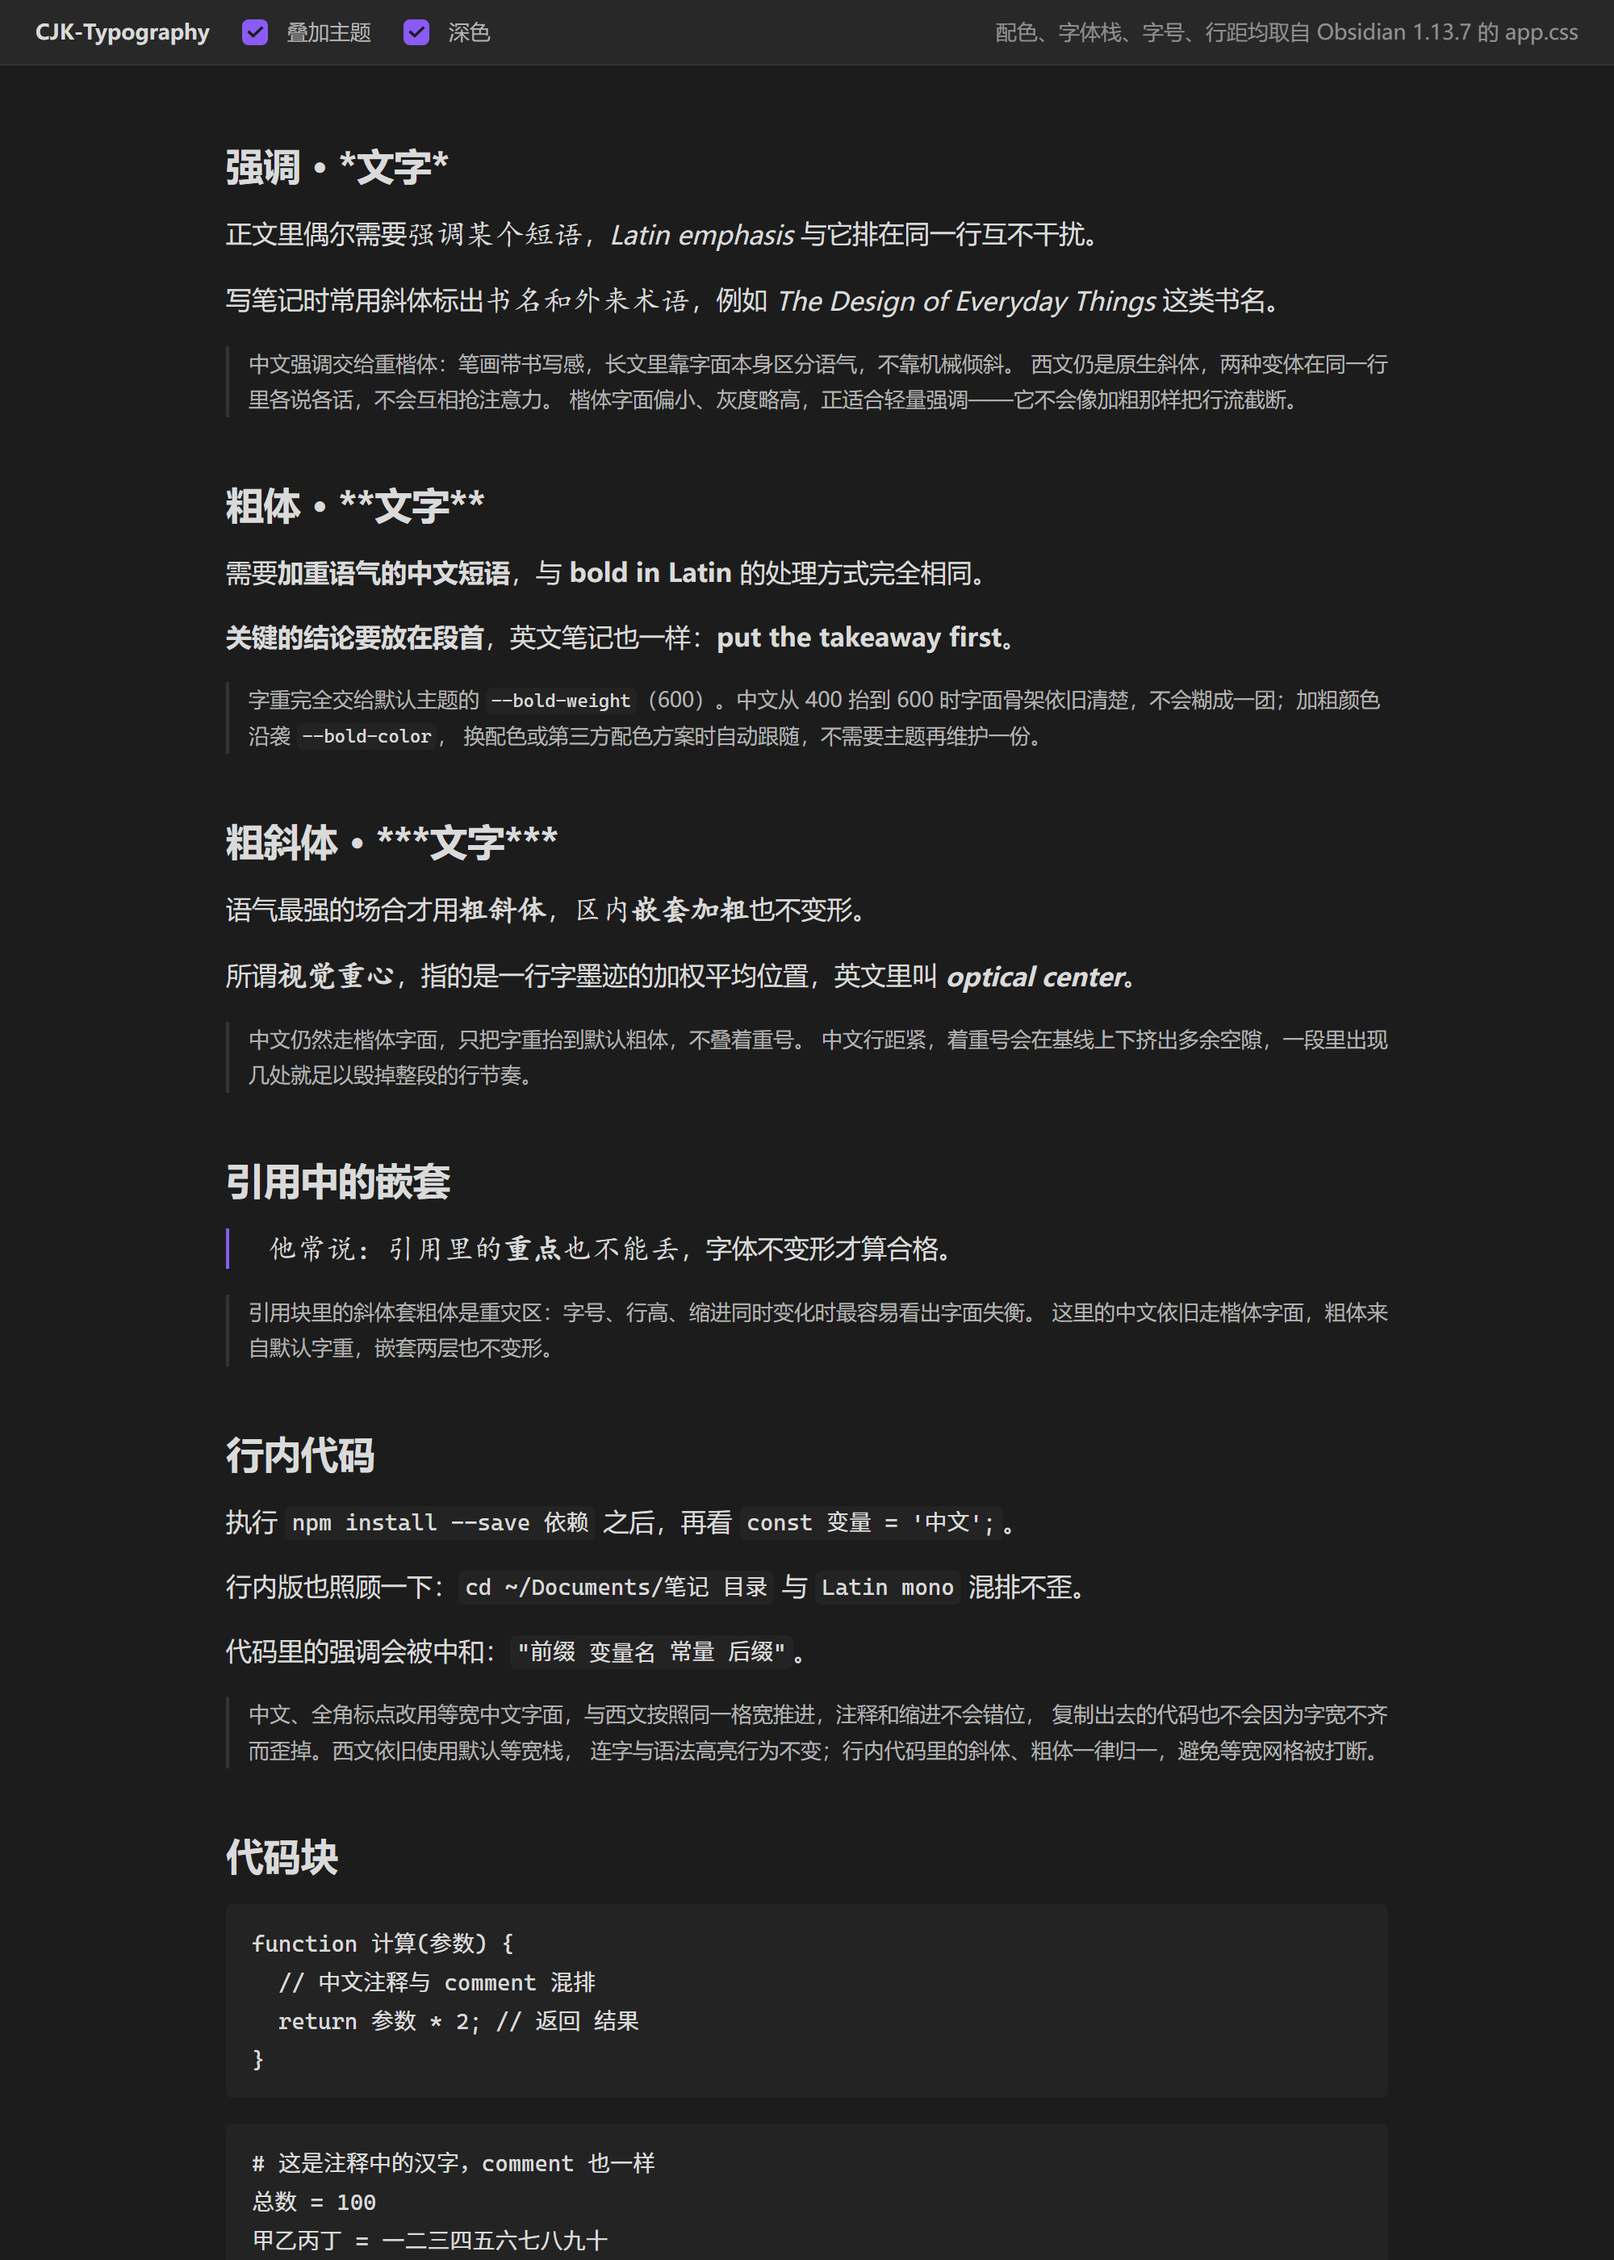
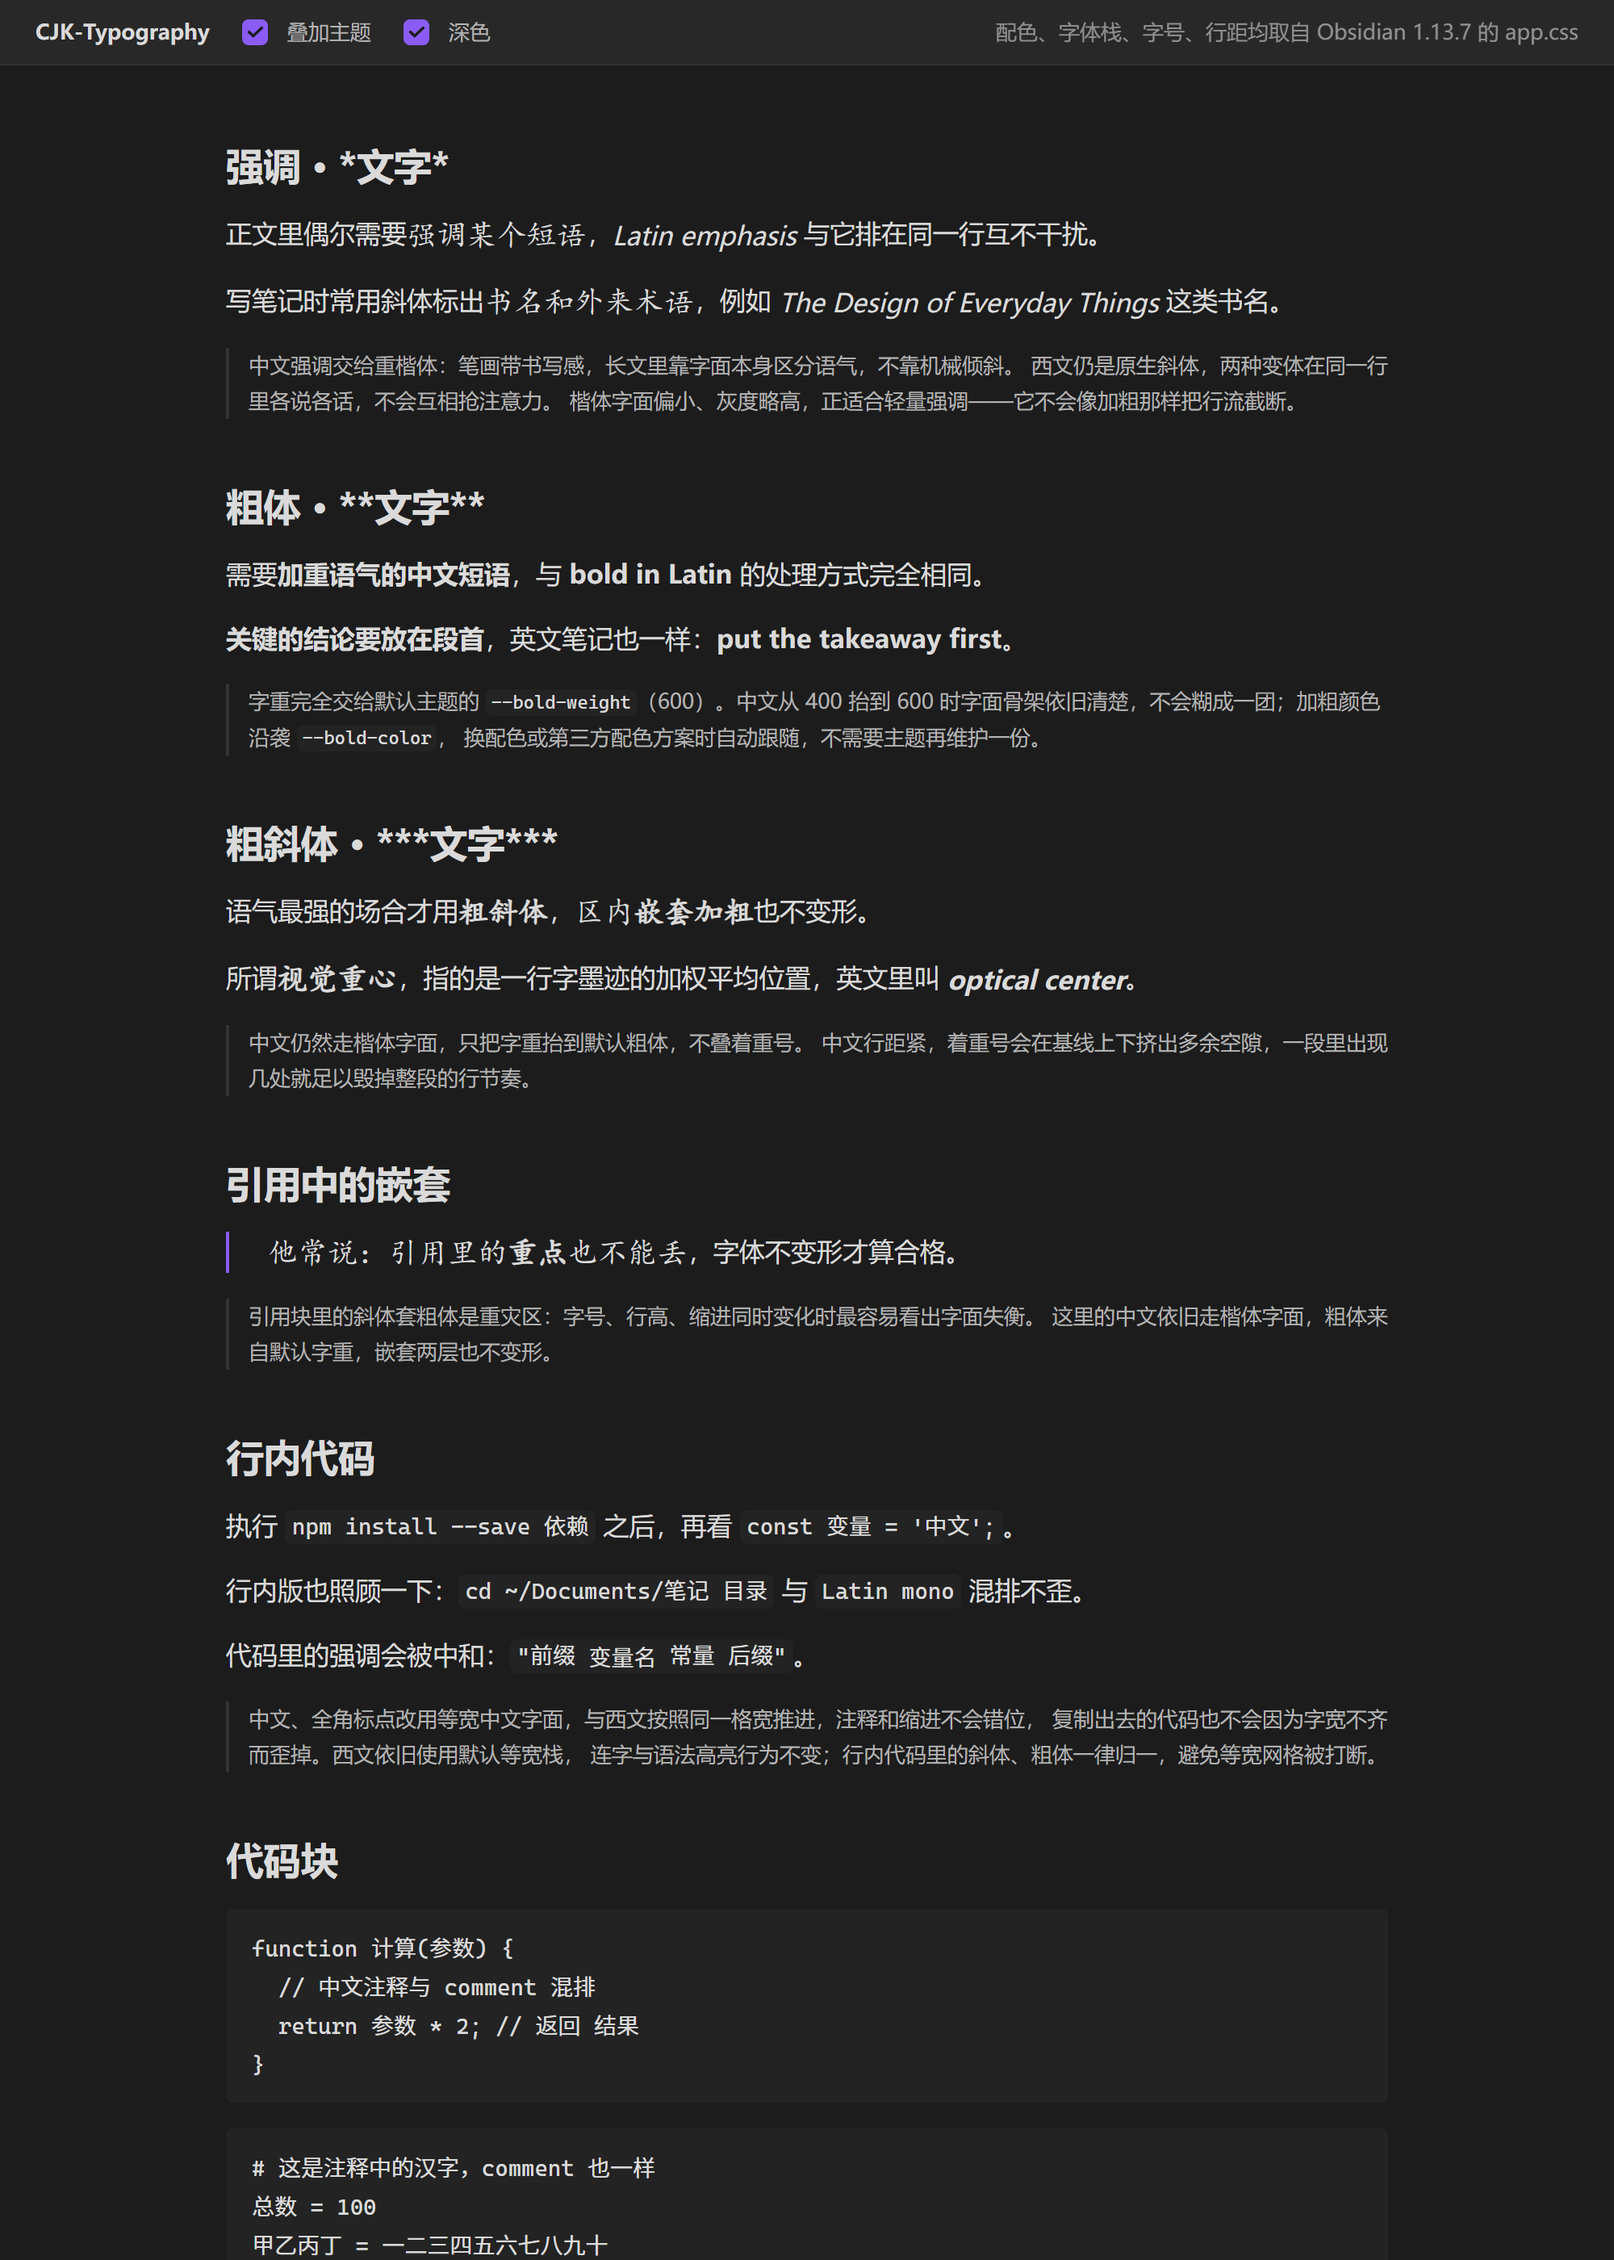
tune: size-adjust 116% / vertical-align -0.09em（目测调整）

diff --git a/theme.css b/theme.css
@@ -33,14 +33,14 @@
      垂直方向不做修正：真实排版共享基线，字形相对基线的位置是
      轮廓固有的（GB 字表实测均值偏差仅 0.4px@16px）；孤立行盒的
      基线放置差异是行盒伪差，不修正。 */
-  size-adjust: 114%;
+  size-adjust: 116%;
 }
 
 em,
 .cm-em {
   font-family: "CJK-Em", var(--font-text);
   /* 楷体相对正文的垂直微调旋钮，按目测调整（当前 -0.06em） */
-  vertical-align: -0.06em;
+  vertical-align: -0.09em;
   /* 只换字体：字重、颜色、italic 仍由默认主题决定 */
 }
 

diff --git a/cjk-typography.css b/cjk-typography.css
@@ -15,14 +15,14 @@
   font-weight: 400;
   /* 字身框对齐：囗(U+56D7) 框墨迹沿线性回归，size-adjust 114% 使
      楷体与雅黑框高一致；垂直方向不做修正（详见 theme.css 注释） */
-  size-adjust: 114%;
+  size-adjust: 116%;
 }
 
 em,
 .cm-em {
   font-family: "CJK-Em", var(--font-text);
   /* 楷体设计框浮在基线上方，微降 0.06em 对齐正文字面 */
-  vertical-align: -0.06em;
+  vertical-align: -0.09em;
   /* 不设置 font-weight、font-style：完全继承 Obsidian 默认的 em 样式 */
 }
 
